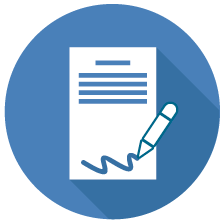
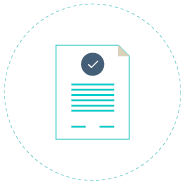
ajuste de imagenes y nuevas paginas de dashboard y no pagos

diff --git a/web/css/pantallas.css b/web/css/pantallas.css
@@ -113,3 +113,43 @@ a {text-decoration: none}
     border-top: 1px solid #CCC;
     padding: 25px 0 0 0;
   }
+
+	.pagospendientesdash {
+	background: #fd5c5c;
+	border-radius: 5px;
+	padding: 10px 0;
+	margin: 5px 0;
+	text-align: center;
+	color: #FFF;
+	font-size: 20px}
+
+#pagoadelantado {
+	background: #fbfbfb;;
+	border-radius: 5px
+	}
+#contenidopagoadelando {
+	width: 400px;
+    text-align: center;
+    margin: 0 auto;
+	padding: 70px 0;}
+
+#contenidopagoadelando p {
+	margin: 30px 0
+	}
+
+#contenidopagoadelando h1 {
+	margin: 30px 0
+	}
+
+.btn-azulnopagos {
+	width:250px;
+	border-radius: 5px;
+	padding: 10px 0;
+	border-bottom: #4f8084 3px solid;
+	background: #5db0b7;
+	color: #FFF;
+	margin: 0 auto}
+
+.btn-azulnopagos:hover {
+	border-bottom: #4f8084 3px solid;
+	background: #8ca4a7}

diff --git a/web/public/css/home/beneficios.css b/web/public/css/home/beneficios.css
@@ -58,12 +58,12 @@ border-bottom: 3px solid #794815}
 #beneficios-title {margin: 80px 0 90px 0}
 .centrar {text-align: center}
 .icon {width: 70%; height: auto}
-.right {text-align: right}
-.left {text-align: left}
+.right {text-align: right;padding: 40px 0 0 0;}
+.left {text-align: left;padding: 40px 0 0 0;}
 .rightp {margin: 0 0 0 350px}
 #cont-beneficios-list h4 {font-size: 30px; color: #5D5D5D; margin-top: 30px}
 #cont-beneficios-list p {width: 470px; font-size: 15px; color: #87868a; margin-bottom: 30px}
-.linea-punteada {border-top: #d8d9dd dashed 2px;}
+.linea-punteada {border-top: #d8d9dd dashed 2px;padding: 40px 0 0 0;}
 #callregistro {color: #6d6d71; margin: 50px 0 90px 0}
 .bread-style a {color: #87868a}
 

diff --git a/web/public/css/home/home.css b/web/public/css/home/home.css
@@ -96,7 +96,6 @@ border-bottom: 3px solid #794815}
 #beneficios {width: 1100px; margin: 0 auto; text-align: center}
 #beneficios h2 {margin: 25px 0;}
 .beneficios {
-	border: #EDEEF0 1px solid;
 	text-align: center;
 	color: #5D5D5D;
 	padding: 25px 10px;
